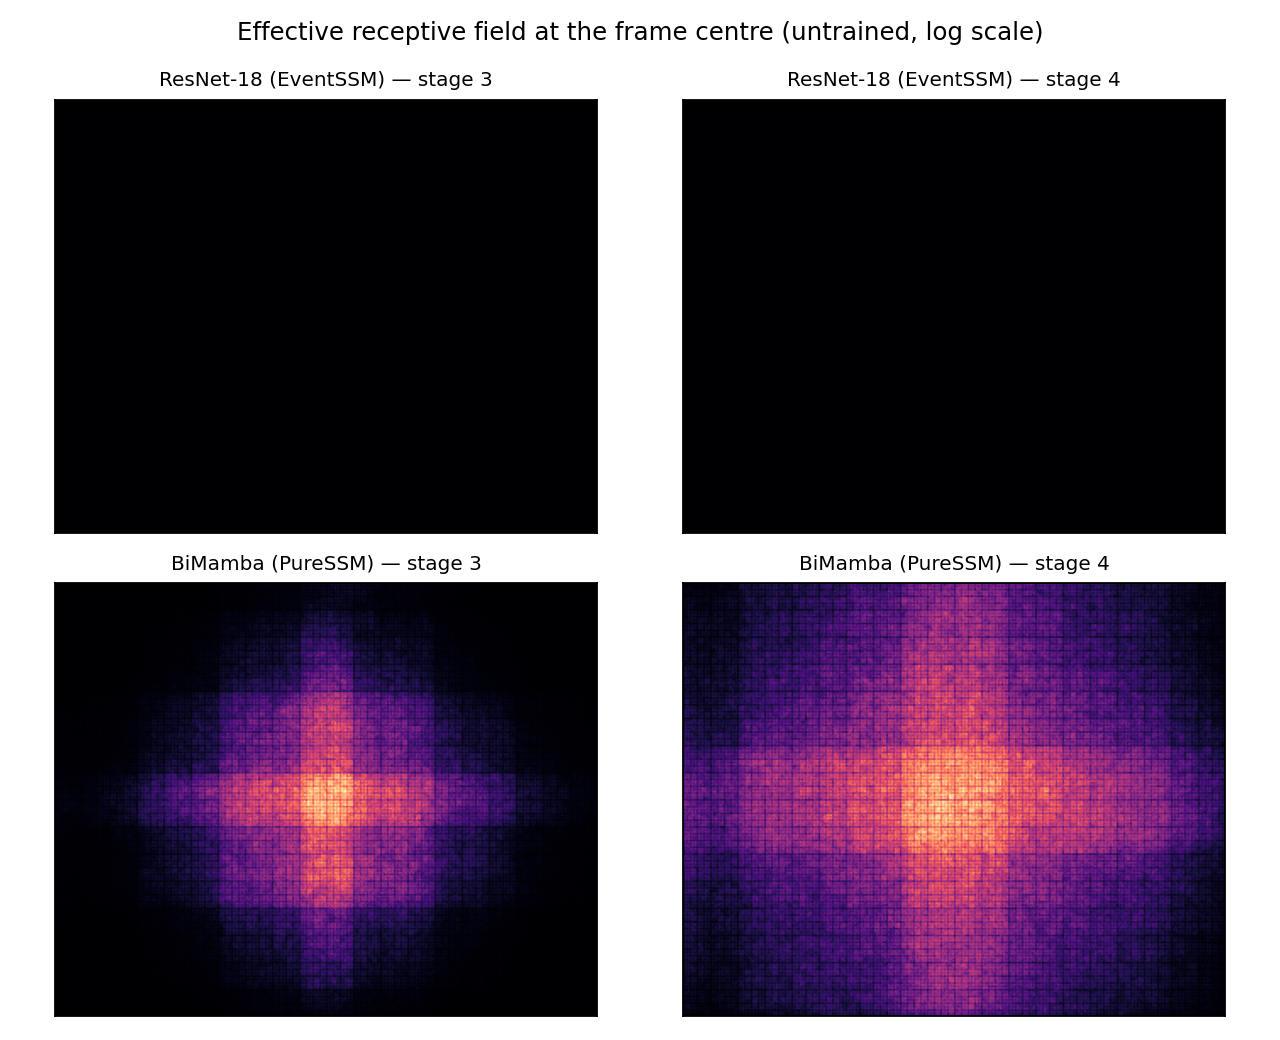
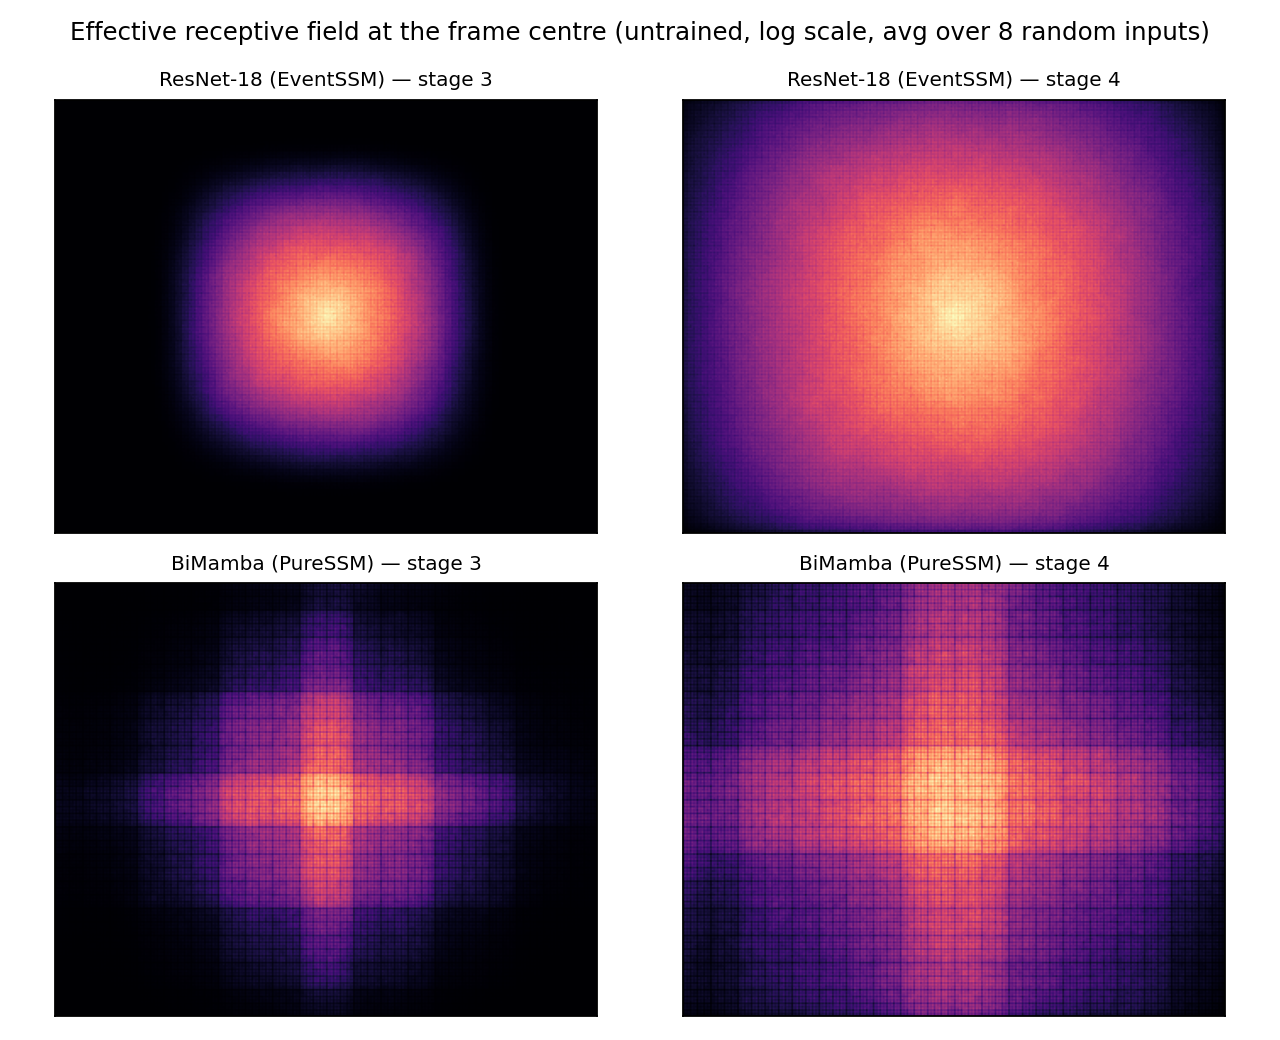
fix(stage11): ERF probe at averaged random inputs — zeros input silenced ResNet via dead ReLU gradients
Sample over n_samples=8 random inputs (seed 1000+i) instead of all-zeros
probe point. At zeros input, ResNet convs + bias-free BN eval produce
exactly-zero output everywhere; ReLU has zero gradient at exactly 0,
silencing backprop completely (gradient sum = 0.0). BiMamba's conv1d
biases inject nonzero signal masking the issue. Averaging over randn
distribution reveals true architecture-intrinsic ERF: ResNet shows
compact local blob (~55×55 px stage 3), BiMamba shows frame-spanning
global support (cross pattern). Update suptitle to reflect method.

Verification: ResNet stage 3 gradient sum at zeros=0.0, randn=20291.8.

Closes: stage11 U5 figure red.

diff --git a/code/event_ssm/scripts/stage11_erf.py b/code/event_ssm/scripts/stage11_erf.py
@@ -19,14 +19,19 @@ OUT = REPO / "code" / "event_ssm" / "proofs" / "out"
 OUT.mkdir(parents=True, exist_ok=True)
 
 
-def erf(module, stage: int) -> torch.Tensor:
+def erf(module, stage: int, n_samples: int = 8) -> torch.Tensor:
     module = module.cuda().eval()
-    x = torch.zeros(1, 20, 256, 320, device="cuda", requires_grad=True)
-    f = module(x)[stage]
-    h, w = f.shape[-2:]
-    f[0, :, h // 2, w // 2].abs().sum().backward()
-    g = x.grad.abs().sum(dim=1)[0]
-    return (g / g.max().clamp(min=1e-12)).cpu()
+    acc = None
+    for i in range(n_samples):
+        torch.manual_seed(1000 + i)                      # reproducible probe set
+        x = torch.randn(1, 20, 256, 320, device="cuda", requires_grad=True)
+        f = module(x)[stage]
+        h, w = f.shape[-2:]
+        f[0, :, h // 2, w // 2].abs().sum().backward()
+        g = x.grad.abs().sum(dim=1)[0]
+        acc = g if acc is None else acc + g
+    acc = acc / n_samples
+    return (acc / acc.max().clamp(min=1e-12)).cpu()
 
 
 torch.manual_seed(0)
@@ -40,7 +45,7 @@ for r, (name, m) in enumerate(models.items()):
         ax.imshow(torch.log1p(100 * erf(m, s)), cmap="magma")
         ax.set_title(f"{name} — stage {s}", fontsize=9)
         ax.set_xticks([]), ax.set_yticks([])
-fig.suptitle("Effective receptive field at the frame centre (untrained, log scale)", fontsize=11)
+fig.suptitle("Effective receptive field at the frame centre (untrained, log scale, avg over 8 random inputs)", fontsize=11)
 fig.tight_layout()
 fig.savefig(OUT / "u5_erf_resnet_vs_bimamba.png", dpi=160)
 print(f"wrote {OUT / 'u5_erf_resnet_vs_bimamba.png'}")
